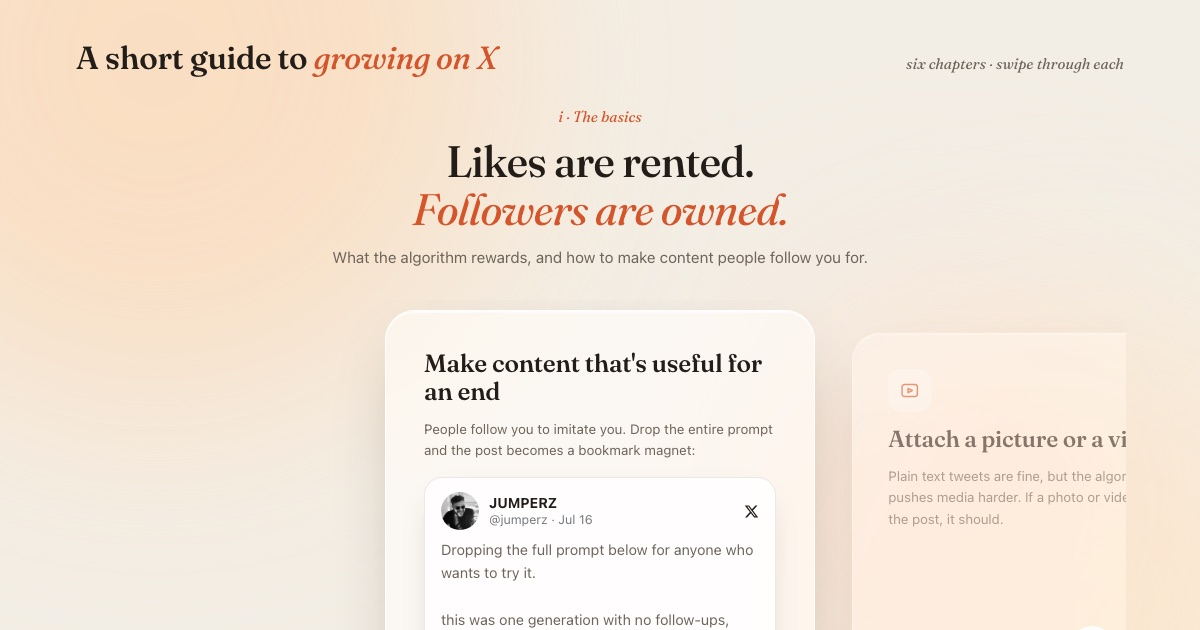
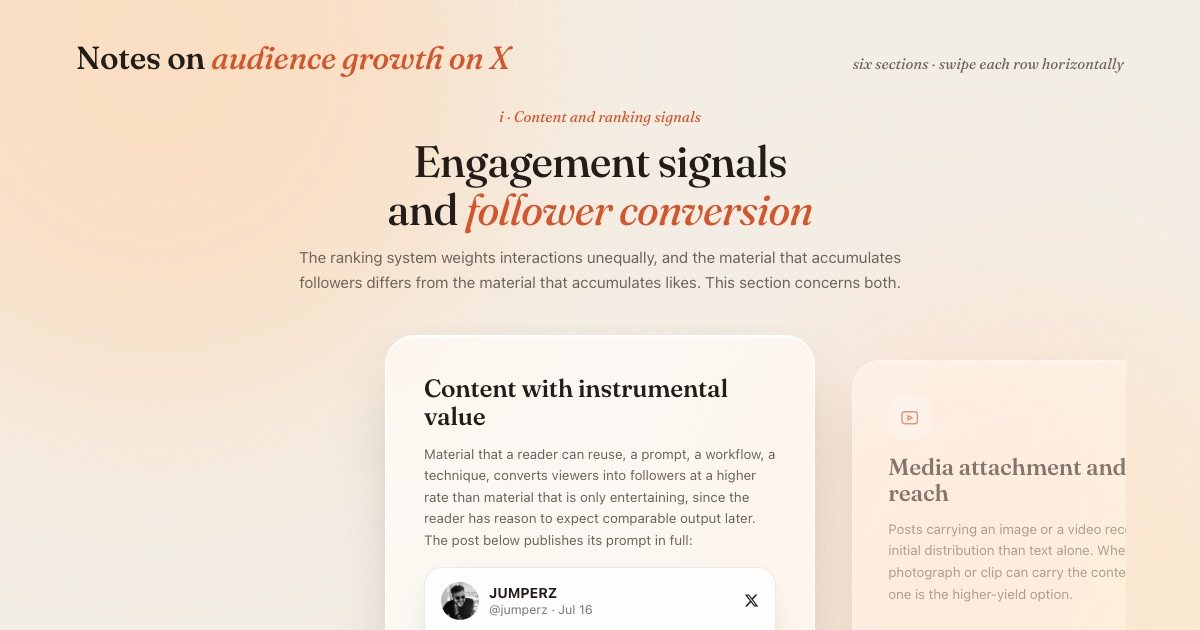
Rewrite copy in informational register
Replace marketing-style headings and imperative body copy with descriptive
section titles and explanatory prose. "Why it works" notes become "Mechanism".
Regenerate social card and update meta descriptions.

diff --git a/index.html b/index.html
@@ -4,14 +4,14 @@
 <meta charset="utf-8">
 <title>Growing on X</title>
 <meta name="viewport" content="width=device-width, initial-scale=1">
-<meta name="description" content="A short guide to growing on X: six chapters of tactics, each with real posts that worked.">
+<meta name="description" content="Notes on audience growth on X: six sections covering ranking signals, timing, replies, borrowed audiences, offline gatherings and publication, each documented with real posts.">
 <meta property="og:type" content="website">
 <meta property="og:title" content="Growing on X">
-<meta property="og:description" content="A short guide to growing on X: six chapters of tactics, each with real posts that worked.">
+<meta property="og:description" content="Notes on audience growth on X: six sections covering ranking signals, timing, replies, borrowed audiences, offline gatherings and publication, each documented with real posts.">
 <meta property="og:image" content="https://mozetech.github.io/x-guide/assets/og.jpg">
 <meta name="twitter:card" content="summary_large_image">
 <meta name="twitter:title" content="Growing on X">
-<meta name="twitter:description" content="Six chapters of tactics, each with real posts that worked.">
+<meta name="twitter:description" content="Notes on audience growth on X: six sections covering ranking signals, timing, replies, borrowed audiences, offline gatherings and publication, each documented with real posts.">
 <meta name="twitter:image" content="https://mozetech.github.io/x-guide/assets/og.jpg">
 <link rel="preload" href="assets/fraunces-roman.woff2" as="font" type="font/woff2" crossorigin>
 </head>
@@ -447,24 +447,24 @@
 <div class="wrap">
 
   <header class="mast">
-    <h1>A short guide to <em>growing on X</em></h1>
-    <span class="note">six chapters &middot; swipe through each</span>
+    <h1>Notes on <em>audience growth on X</em></h1>
+    <span class="note">six sections &middot; swipe each row horizontally</span>
   </header>
 
   <!-- ============ I · THE BASICS ============ -->
   <section class="panel" id="p-1">
     <div class="panel-head">
-      <div class="chapno">i &middot; The basics</div>
-      <h2>Likes are rented. <em>Followers are owned.</em></h2>
-      <p>What the algorithm rewards, and how to make content people follow you for.</p>
+      <div class="chapno">i &middot; Content and ranking signals</div>
+      <h2>Engagement signals and <em>follower conversion</em></h2>
+      <p>The ranking system weights interactions unequally, and the material that accumulates followers differs from the material that accumulates likes. This section concerns both.</p>
     </div>
     <div class="deck-shell">
       <button class="arrow prev" aria-label="Previous card"><svg viewBox="0 0 24 24" fill="none" stroke="currentColor" stroke-width="2.2" stroke-linecap="round" stroke-linejoin="round"><path d="M15 5l-7 7 7 7"/></svg></button>
       <div class="deck" tabindex="0" aria-label="The basics, cards">
 
         <article class="card">
-          <h3>Make content that's useful for an end</h3>
-          <p class="lead">People follow you to imitate you. Drop the entire prompt and the post becomes a bookmark magnet:</p>
+          <h3>Content with instrumental value</h3>
+          <p class="lead">Material that a reader can reuse, a prompt, a workflow, a technique, converts viewers into followers at a higher rate than material that is only entertaining, since the reader has reason to expect comparable output later. The post below publishes its prompt in full:</p>
           <a class="xpost" href="https://x.com/jumperz/status/2077884505612750861" target="_blank" rel="noopener">
             <div class="xhead">
               <img loading="lazy" decoding="async" class="xav" src="assets/av-jump.jpg" alt="">
@@ -492,16 +492,16 @@ andonorris official website&hellip; <span class="xmore">Show more</span></p>
 
         <article class="card">
           <div class="icon"><svg viewBox="0 0 24 24" fill="none" stroke="currentColor" stroke-width="1.7" stroke-linecap="round" stroke-linejoin="round"><rect x="3" y="5" width="18" height="14" rx="3"/><path d="M10 9.5l5 2.5-5 2.5z"/></svg></div>
-          <h3>Attach a picture or a video</h3>
-          <p>Plain text tweets are fine, but the algorithm simply pushes media harder. If a photo or video can carry the post, it should.</p>
-          <div class="why"><b>Why it works</b> &mdash; media posts earn more feed placement before anyone has engaged with them.</div>
+          <h3>Media attachment and initial reach</h3>
+          <p>Posts carrying an image or a video receive wider initial distribution than text alone. Where a photograph or clip can carry the content, including one is the higher-yield option.</p>
+          <div class="why"><b>Mechanism.</b> Media posts receive additional feed placement before any engagement has accrued.</div>
         </article>
 
         <article class="card">
           <div class="icon"><svg viewBox="0 0 24 24" fill="none" stroke="currentColor" stroke-width="1.7" stroke-linecap="round" stroke-linejoin="round"><path d="M21 11.5a8.5 8.5 0 01-8.5 8.5c-1.6 0-3.1-.4-4.4-1.2L3 20l1.3-4.1A8.5 8.5 0 1121 11.5z"/></svg></div>
-          <h3>Replies push your post into feeds</h3>
-          <p>Every reply on your post extends its reach. Posts that invite an answer, a question, an offer to share the prompt, outperform polished statements nobody feels like responding to.</p>
-          <div class="why"><b>Why it works</b> &mdash; reply beats retweet beats bookmark beats like, and X now weights replies on a friend's post 15x. Write posts your circle has to answer.</div>
+          <h3>Replies as a distribution signal</h3>
+          <p>Each reply extends a post's circulation. Posts phrased to require an answer therefore travel further than declarative statements, which give the reader no occasion to respond.</p>
+          <div class="why"><b>Mechanism.</b> Replies outweigh reposts, bookmarks and likes in the ranking, and replies on a post from an account the reader follows now carry a fifteenfold weighting.</div>
         </article>
 
       </div>
@@ -513,17 +513,17 @@ andonorris official website&hellip; <span class="xmore">Show more</span></p>
   <!-- ============ II · RIDING TRENDS ============ -->
   <section class="panel" id="p-2">
     <div class="panel-head">
-      <div class="chapno">ii &middot; Riding trends</div>
-      <h2>Ride what's <em>already moving</em></h2>
-      <p>You don't have to create a wave. There's always one happening. The job is to enter it with the right keywords before it passes.</p>
+      <div class="chapno">ii &middot; Timing and search behavior</div>
+      <h2>Entering <em>existing attention flows</em></h2>
+      <p>Attention concentrates around events and terminology already in circulation. Material that enters one of these flows inherits an audience assembled by other means, provided it arrives while the flow persists.</p>
     </div>
     <div class="deck-shell">
       <button class="arrow prev" aria-label="Previous card"><svg viewBox="0 0 24 24" fill="none" stroke="currentColor" stroke-width="2.2" stroke-linecap="round" stroke-linejoin="round"><path d="M15 5l-7 7 7 7"/></svg></button>
       <div class="deck" tabindex="0" aria-label="Riding trends, cards">
 
         <article class="card">
-          <h3>Post from inside the event</h3>
-          <p class="lead">Name the event while it's hot; that community is already searching X for exactly these posts. 12.5K views from a vending machine:</p>
+          <h3>Posting from a live event</h3>
+          <p class="lead">Naming an event while it is underway places a post in front of a community already searching that term, which supplies distribution independent of the author's following. The example below records an incident on site:</p>
           <a class="xpost" href="https://x.com/MozeTech/status/2086269933143658603" target="_blank" rel="noopener">
             <div class="xhead">
               <img loading="lazy" decoding="async" class="xav" src="assets/av-moze.jpg" alt="">
@@ -545,8 +545,8 @@ andonorris official website&hellip; <span class="xmore">Show more</span></p>
         </article>
 
         <article class="card">
-          <h3>Be first to the newest tech</h3>
-          <p class="lead">When a new model drops, be among the first to do something genuinely cool with it. Day-one posts soak up the whole search wave before it gets crowded:</p>
+          <h3>Early use of newly released tools</h3>
+          <p class="lead">A release generates a concentrated search wave lasting a few days, during which comparatively little material exists to satisfy it. The example below documents an undemonstrated use of a model published the same week:</p>
           <a class="xpost" href="https://x.com/victormustar/status/2089310616854892818" target="_blank" rel="noopener">
             <div class="xhead">
               <img loading="lazy" decoding="async" class="xav" src="assets/av-victor.jpg" alt="">
@@ -571,14 +571,14 @@ andonorris official website&hellip; <span class="xmore">Show more</span></p>
 
         <article class="card">
           <div class="icon"><svg viewBox="0 0 24 24" fill="none" stroke="currentColor" stroke-width="1.7" stroke-linecap="round" stroke-linejoin="round"><circle cx="11" cy="11" r="7"/><path d="M21 21l-4.3-4.3"/></svg></div>
-          <h3>Use the words in the zeitgeist</h3>
-          <p>Whatever is going viral this week, your post needs those exact words. If "AI escaping its sandbox" is the story and you're at a demo of something like it, say it in those terms. This matters more than almost anything else.</p>
-          <div class="why"><b>Why it works</b> &mdash; the algorithm matches your words against what people search. Wrong words, invisible post.</div>
+          <h3>Lexical alignment with current discourse</h3>
+          <p>Retrieval depends on wording. A post describing a phenomenon in terms other than those presently in circulation will not surface for the readers searching that phenomenon, however closely its content bears on the subject.</p>
+          <div class="why"><b>Mechanism.</b> The ranking system matches post text against active queries, so wording determines whether a post is retrievable at all.</div>
         </article>
 
         <article class="card">
-          <h3>Post the room others weren't in</h3>
-          <p class="lead">Host something small and niche, then post one picture. 71 people replied to this one asking for the invite, and every reply pushed it further:</p>
+          <h3>Documented scarcity and reply volume</h3>
+          <p class="lead">A photograph of a small closed gathering prompts requests for access, and those requests enter the ranking as replies, which extends circulation further. The example below drew seventy-one:</p>
           <a class="xpost" href="https://x.com/luci_holland/status/2083310043672522840" target="_blank" rel="noopener">
             <div class="xhead">
               <img loading="lazy" decoding="async" class="xav" src="assets/av-luci.jpg" alt="">
@@ -609,17 +609,17 @@ dm or comment for the invite</p>
   <!-- ============ III · STARTING FROM ZERO ============ -->
   <section class="panel" id="p-3">
     <div class="panel-head">
-      <div class="chapno">iii &middot; Starting from zero</div>
-      <h2>Small accounts grow in <em>other people's threads</em></h2>
-      <p>The algorithm is not kind to new accounts. Your post reaches 40 people and nobody interacts, because nobody knows you. So don't post. Reply.</p>
+      <div class="chapno">iii &middot; Accounts without an audience</div>
+      <h2>Growth in the <em>absence of distribution</em></h2>
+      <p>A new account receives minimal circulation, so material published to its own timeline reaches almost no one and attracts no engagement to compound. Under this constraint, participation in established threads is the more productive channel.</p>
     </div>
     <div class="deck-shell">
       <button class="arrow prev" aria-label="Previous card"><svg viewBox="0 0 24 24" fill="none" stroke="currentColor" stroke-width="2.2" stroke-linecap="round" stroke-linejoin="round"><path d="M15 5l-7 7 7 7"/></svg></button>
       <div class="deck" tabindex="0" aria-label="Starting from zero, cards">
 
         <article class="card">
-          <h3>Reply where the likes are low</h3>
-          <p class="lead">Find honest posts sitting at a handful of likes, like this one, and actually talk to the person. On a small post your reply is half the conversation:</p>
+          <h3>Reply placement on low-engagement posts</h3>
+          <p class="lead">On a post carrying few responses, a single reply constitutes a substantial share of the visible conversation and is likely to be read and answered by the author. The post below stands at eleven likes:</p>
           <a class="xpost" href="https://x.com/kelvinbuildss/status/2076776457066467423" target="_blank" rel="noopener">
             <div class="xhead">
               <img loading="lazy" decoding="async" class="xav" src="assets/av-kelvin.jpg" alt="">
@@ -643,8 +643,8 @@ next time: validate the market first, then build.</p>
         </article>
 
         <article class="card">
-          <h3>Don't be the 400th "so cool" reply</h3>
-          <p class="lead">Under every big post is a wall of accounts agreeing, and nobody cares. An original take or the question everyone's quietly wondering becomes its own post. This reply earned 595 likes on its own:</p>
+          <h3>Reply differentiation in crowded threads</h3>
+          <p class="lead">Replies expressing agreement accumulate unread beneath large posts. A reply carrying an original observation, or the question the thread has left unanswered, accrues engagement of its own and acquires independent visibility. The reply below received five hundred and ninety-five likes:</p>
           <a class="xpost" href="https://x.com/tszzl/status/2088559477809438737" target="_blank" rel="noopener">
             <div class="xhead">
               <img loading="lazy" decoding="async" class="xav" src="assets/av-roon.jpg" alt="">
@@ -663,8 +663,8 @@ next time: validate the market first, then build.</p>
         </article>
 
         <article class="card">
-          <h3>Cold DMs actually work here</h3>
-          <p class="lead">Open with something real about what they're into, not a pitch. This cold message got a 30.5K-follower founder writing paragraphs back within the hour:</p>
+          <h3>Direct messages as an outreach channel</h3>
+          <p class="lead">A direct message reaches its recipient without algorithmic mediation, and messages opening on a specific detail of the recipient's work receive markedly higher response rates than general approaches. The exchange below is with an account of thirty thousand followers:</p>
           <div class="dm">
             <div class="dm-head">
               <div class="dm-av">R</div>
@@ -696,17 +696,17 @@ next time: validate the market first, then build.</p>
   <!-- ============ IV · BORROWING AUDIENCES ============ -->
   <section class="panel" id="p-4">
     <div class="panel-head">
-      <div class="chapno">iv &middot; Borrowing audiences</div>
-      <h2>Borrow a <em>bigger audience</em></h2>
-      <p>One retweet from the right person outperforms months of posting into the void. It can be earned, and there's a more combative route too.</p>
+      <div class="chapno">iv &middot; Access to established audiences</div>
+      <h2>Transfer from <em>established accounts</em></h2>
+      <p>A repost from an account with a large following transfers a portion of that audience directly, and does so faster than any amount of unassisted publication. The methods below concern how such attention is obtained, including the adversarial case.</p>
     </div>
     <div class="deck-shell">
       <button class="arrow prev" aria-label="Previous card"><svg viewBox="0 0 24 24" fill="none" stroke="currentColor" stroke-width="2.2" stroke-linecap="round" stroke-linejoin="round"><path d="M15 5l-7 7 7 7"/></svg></button>
       <div class="deck" tabindex="0" aria-label="Borrowing audiences, cards">
 
         <article class="card">
-          <h3>A selfie is not a story</h3>
-          <p class="lead">"Met this guy today" does nothing. Do something worth posting and tag who it involves. A hacked badge beats any handshake photo, 82K views:</p>
+          <h3>Documented collaboration over proximity</h3>
+          <p class="lead">A photograph establishing proximity to a notable person conveys no information and gives their audience no reason to respond. A record of work performed together conveys both. The example below documents a modified conference badge and credits the collaborator:</p>
           <a class="xpost" href="https://x.com/ivoinetech/status/2086156143349612782" target="_blank" rel="noopener">
             <div class="xhead">
               <img loading="lazy" decoding="async" class="xav" src="assets/av-ivoine.jpg" alt="">
@@ -732,14 +732,14 @@ next time: validate the market first, then build.</p>
 
         <article class="card">
           <div class="icon"><svg viewBox="0 0 24 24" fill="none" stroke="currentColor" stroke-width="1.7" stroke-linecap="round" stroke-linejoin="round"><path d="M13.5 10.5L21 3"/><path d="M16 3h5v5"/><path d="M19 13v5a3 3 0 01-3 3H6a3 3 0 01-3-3V8a3 3 0 013-3h5"/></svg></div>
-          <h3>Tag them, every time</h3>
-          <p>Two things happen when you tag the person in a post about something genuinely good you did with them: the post reaches their audience, and they feel compelled to retweet it, because it reflects well on them too.</p>
-          <div class="why"><b>Why it works</b> &mdash; a retweet from a large account is the fastest follower transfer on the platform.</div>
+          <h3>Mention as a distribution mechanism</h3>
+          <p>A mention places the post in the notification stream of the account named. Where the content reflects favorably on that account, the mention also supplies an incentive to repost it to their own following, which is the outcome of consequence.</p>
+          <div class="why"><b>Mechanism.</b> A repost from a large account is the most direct transfer of followers available on the platform.</div>
         </article>
 
         <article class="card">
-          <h3>Disagreement is a strategy</h3>
-          <p class="lead">Contrarian takes get you quoted, and the quote-tweeter's haters become your followers. One caveat straight from X's head of product: pure ragebait just got nerfed, so disagree with substance:</p>
+          <h3>Disagreement and adversarial circulation</h3>
+          <p class="lead">A contested position invites quotation, and readers who oppose the quoting account frequently follow the account quoted. The platform has since reduced the circulation of purely inflammatory material, which confines the method to substantive disagreement:</p>
           <a class="xpost" href="https://x.com/nikitabier/status/2089763962330230803" target="_blank" rel="noopener">
             <div class="xhead">
               <img loading="lazy" decoding="async" class="xav" src="assets/av-nikita.jpg" alt="">
@@ -767,17 +767,17 @@ So last month, we gave the reply predictor a 15x boost if it&rsquo;s a friend&rs
   <!-- ============ V · IN PERSON ============ -->
   <section class="panel" id="p-5">
     <div class="panel-head">
-      <div class="chapno">v &middot; In person</div>
-      <h2>Rooms convert <em>better than feeds</em></h2>
-      <p>People are at events every week, especially in SF, and almost nobody turns those rooms into followers.</p>
+      <div class="chapno">v &middot; Offline gatherings</div>
+      <h2>Conversion from <em>physical gatherings</em></h2>
+      <p>Attendance supplies two things at once: original material unavailable to those not present, and direct contact with potential followers. Neither is commonly exploited by attendees.</p>
     </div>
     <div class="deck-shell">
       <button class="arrow prev" aria-label="Previous card"><svg viewBox="0 0 24 24" fill="none" stroke="currentColor" stroke-width="2.2" stroke-linecap="round" stroke-linejoin="round"><path d="M15 5l-7 7 7 7"/></svg></button>
       <div class="deck" tabindex="0" aria-label="In person, cards">
 
         <article class="card">
-          <h3>Shoot what's genuinely interesting</h3>
-          <p class="lead">Photograph the coolest thing in the room, name the event, and post while you're still standing there. Event name, keyword, and a photo stack three boosts on one post:</p>
+          <h3>Documentation of live events</h3>
+          <p class="lead">Photographing the most unusual object present and naming the event combines original material with an active search term, compounding two of the effects described above on a single post. The example below was taken and published on the floor:</p>
           <a class="xpost" href="https://x.com/MozeTech/status/2086361458108252246" target="_blank" rel="noopener">
             <div class="xhead">
               <img loading="lazy" decoding="async" class="xav" src="assets/av-moze.jpg" alt="">
@@ -796,9 +796,9 @@ So last month, we gave the reply predictor a 15x boost if it&rsquo;s a friend&rs
 
         <article class="card">
           <div class="icon"><svg viewBox="0 0 24 24" fill="none" stroke="currentColor" stroke-width="1.7" stroke-linecap="round" stroke-linejoin="round"><circle cx="12" cy="8" r="3.5"/><path d="M5 20c0-3.5 3-6 7-6s7 2.5 7 6"/><path d="M18 6l1 1 2-2.5"/></svg></div>
-          <h3>Have them add you, not the reverse</h3>
-          <p>Ask everyone you meet whether they're on X, then have them follow you on the spot. The direction matters: if you add them, they take you as a follower and forget you. A simple excuse covers it: you don't have the app on your phone, so they should add you.</p>
-          <div class="why"><b>Why it works</b> &mdash; people flake. The person who taps follow is the one who committed.</div>
+          <h3>Direction of the follow request</h3>
+          <p>Asking a new contact to follow the account, rather than offering to follow theirs, transfers the action to them while the meeting is still in progress. Where the initiative is left with the other party, the connection is frequently never completed. Stating that the application is not installed on the phone is sufficient to redirect the request.</p>
+          <div class="why"><b>Mechanism.</b> The party who performs the action at the time is the party who has committed to it.</div>
         </article>
 
       </div>
@@ -810,17 +810,17 @@ So last month, we gave the reply predictor a 15x boost if it&rsquo;s a friend&rs
   <!-- ============ VI · SHARING YOUR WORK ============ -->
   <section class="panel" id="p-6">
     <div class="panel-head">
-      <div class="chapno">vi &middot; Sharing your work</div>
-      <h2>Ship constantly, <em>share everything</em></h2>
-      <p>Everyone is doing interesting work they never share, and the world wants to see it. If it isn't confidential, it goes out.</p>
+      <div class="chapno">vi &middot; Publication of ongoing work</div>
+      <h2>Continuous <em>publication of work</em></h2>
+      <p>Most work of any interest is never published. Where no confidentiality constraint applies, output that already exists can be converted into material at negligible additional cost, which is the cheapest source of supply available.</p>
     </div>
     <div class="deck-shell">
       <button class="arrow prev" aria-label="Previous card"><svg viewBox="0 0 24 24" fill="none" stroke="currentColor" stroke-width="2.2" stroke-linecap="round" stroke-linejoin="round"><path d="M15 5l-7 7 7 7"/></svg></button>
       <div class="deck" tabindex="0" aria-label="Sharing your work, cards">
 
         <article class="card">
-          <h3>Build small apps that match your identity</h3>
-          <p class="lead">Little playable things tied to what you do give people a reason to follow you for the next one. A tiny combat test, 25K views:</p>
+          <h3>Small artifacts aligned with the account's subject</h3>
+          <p class="lead">A minor application related to the account's stated domain supplies readers with grounds to expect further work of the same kind, and production cost is low under current tooling. The example below documents a combat prototype:</p>
           <a class="xpost" href="https://x.com/SargantanaGames/status/2087583747105304896" target="_blank" rel="noopener">
             <div class="xhead">
               <img loading="lazy" decoding="async" class="xav" src="assets/av-sarg.jpg" alt="">
@@ -839,15 +839,15 @@ So last month, we gave the reply predictor a 15x boost if it&rsquo;s a friend&rs
         </article>
 
         <article class="card">
-          <h3>Let Claude produce the launch video</h3>
-          <p class="lead">You don't need to edit anything. Tell Claude to use Remotion and post what it renders. This whole trailer was generated with one prompt, zero hand editing:</p>
+          <h3>Automated production of launch material</h3>
+          <p class="lead">Video can be generated from a written description without manual editing, which removes the principal cost of publishing media. The sequence below was produced by a single instruction to a model using Remotion, with no subsequent editing:</p>
           <div class="vidwrap"><video controls playsinline preload="metadata" src="assets/forkcast-trailer.mp4"></video></div>
-          <div class="vidcap">the Forkcast trailer, Claude + Remotion</div>
+          <div class="vidcap">Forkcast trailer, generated with Claude and Remotion</div>
         </article>
 
         <article class="card">
-          <h3>Screen record as you work</h3>
-          <p class="lead">You already have the footage of your own work; most people just never hit record. Raw process content, bugs included, reads as authentic:</p>
+          <h3>Recording of process material</h3>
+          <p class="lead">Footage of work in progress exists as a byproduct of the work itself and requires only that recording be started beforehand. Unedited material, defects included, is received as more credible than finished presentation. The example below reports both a result and its failures:</p>
           <a class="xpost" href="https://x.com/MozeTech/status/2080813530203508948" target="_blank" rel="noopener">
             <div class="xhead">
               <img loading="lazy" decoding="async" class="xav" src="assets/av-moze.jpg" alt="">
@@ -873,7 +873,7 @@ three.js, per-country SEIR model, raycast vertex sculpting on the virus mesh its
   </section>
 
   <footer class="footer">
-    <p>Copy-paste prompts and Claude skills for launch content are coming later.</p>
+    <p>Prompts and reusable skills for generating launch material will be added to this document.</p>
   </footer>
 
 </div>

diff --git a/README.md b/README.md
@@ -1,6 +1,6 @@
 # Growing on X
 
-A short guide to growing on X: six chapters of tactics, each illustrated with real posts that worked.
+Notes on audience growth on X. Six sections covering ranking signals, timing and search behavior, accounts without an audience, access to established audiences, offline gatherings, and publication of ongoing work. Each method is documented with a real post.
 
 Live at **https://mozetech.github.io/x-guide/**
 
@@ -9,7 +9,7 @@ Live at **https://mozetech.github.io/x-guide/**
 - `index.html` — the whole site (styles and script inline, no build step, no dependencies)
 - `assets/` — Fraunces webfont, post images, the Forkcast trailer, social card
 
-Chapters: the basics, riding trends, starting from zero, borrowing audiences, in person, sharing your work. Each chapter is a swipeable carousel of cards; most cards embed a real post as evidence.
+Each section is a horizontally swipeable row of cards. A card states a method, explains the mechanism behind it, and where possible embeds the post that demonstrates it.
 
 ## Editing
 
